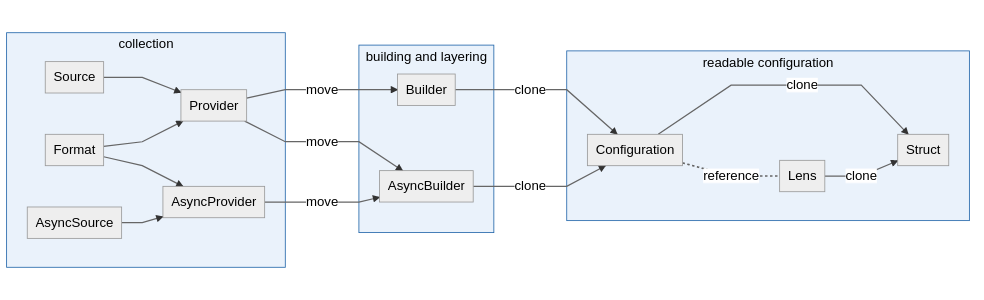
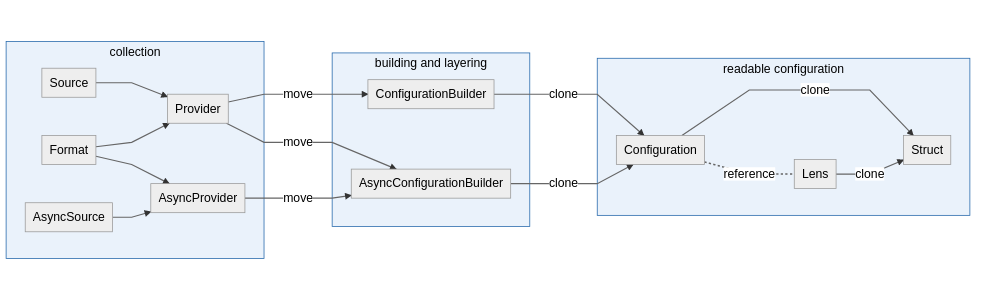
fix typo

diff --git a/README.md b/README.md
@@ -28,7 +28,7 @@ All aforementioned entities are **traits** exposed by the library. What it means
 
 ![flow of data](./assets/basicflow.png)
 
-Providers are lazy, which means they execute no action unless told so. This is the reponsibility of `Builder` and `AsyncBuilder` to invoke providers they **own** and properly layer resulting entities to form `Configuration`.
+Providers are lazy, which means they execute no action unless told so. This is the reponsibility of `ConfigurationBuilder` and `AsyncConfigurationBuilder` to invoke providers they **own** and properly layer resulting entities to form `Configuration`.
 
 `Configuration` consists of ordered trees (it can be said that it is an ordered forest), one per each source, that are layered in order to provide correct overwriting behaviour for different environments of your application.
 
